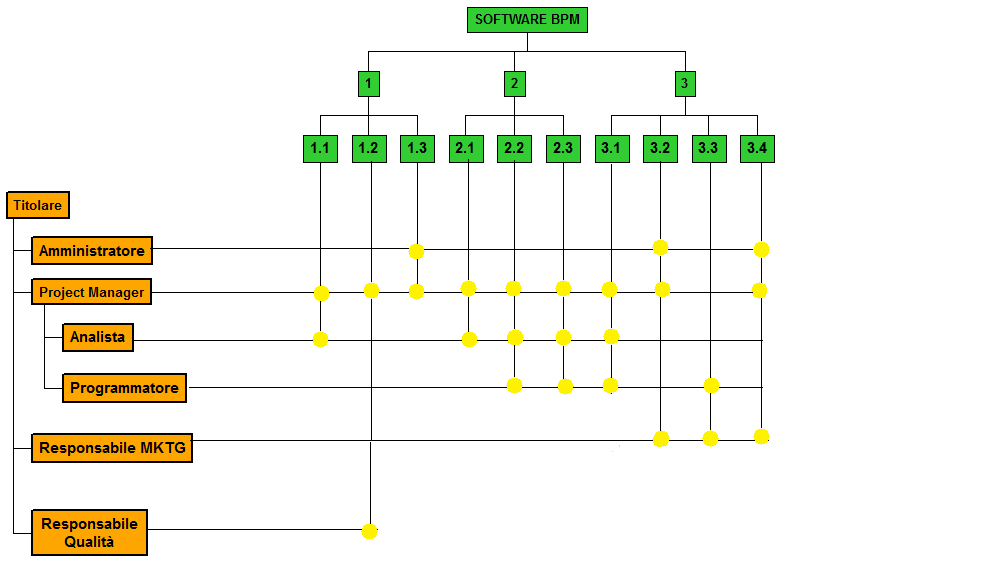
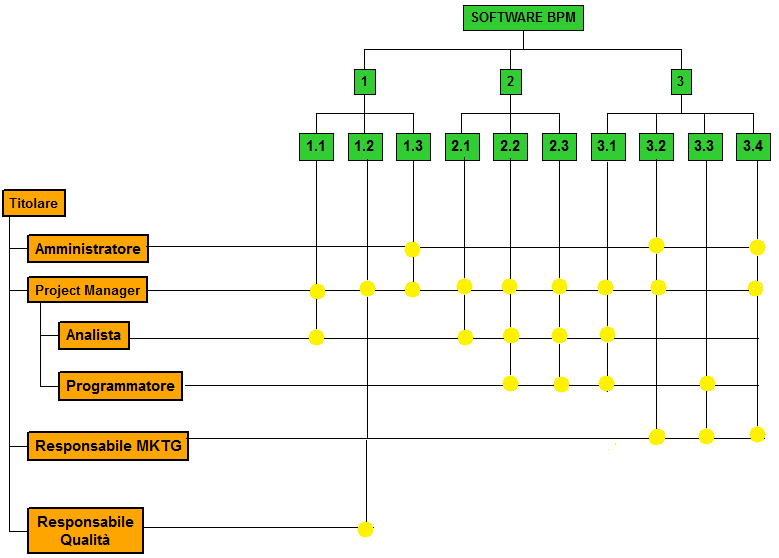
corretti tutti gli overfull vbox/hbox

diff --git a/LaTeX/presentazione/presentazione.tex b/LaTeX/presentazione/presentazione.tex
@@ -217,12 +217,12 @@ Nel mondo l'abito\\ fa il monaco:\\ il nostro obiettivo è\\ farvi l'abito, il m
 \begin{frame}% #3
 \frametitle{Intersezione fra WBS e OBS}
 \begin{columns}
-\column{.75\textwidth}{
+\column{.7\textwidth}{
 \vspace{1em}
-  \includegraphics[width=1.3\textwidth]{WBS_OBS}
+  \includegraphics[width=\textwidth]{WBS_OBS}
 \vfill
 }
-\column{.35\textwidth}{
+\column{.3\textwidth}{
 \scalebox{.7}{
 \hspace{2pt}\begin{minipage}[b]{\textwidth}
 \begin{block}{\ding{182} Pianificazione}
@@ -308,8 +308,8 @@ Nel mondo l'abito\\ fa il monaco:\\ il nostro obiettivo è\\ farvi l'abito, il m
 \frametitle{Preventivo dei costi}
 
 \begin{columns}
-\column{.55\textwidth}{
-\scalebox{.55}{
+\column{.5\textwidth}{
+\scalebox{.51}{
 \begin{scriptsize}
 \begin{tabular}{p{.6\textwidth}ccccccr}
 \toprule
@@ -325,8 +325,8 @@ redazione \inglese{business plan}	            & 1 & & 16 &   & &   & \EUR{520,00
 \end{scriptsize}
 }
 }
-\column{.55\textwidth}{
-\scalebox{.55}{
+\column{.5\textwidth}{
+\scalebox{.51}{
 \begin{scriptsize}
 \begin{tabular}{p{.6\textwidth}ccccccr}
 \toprule
@@ -344,11 +344,12 @@ analisi nuovo SW/soluzione ibrida 					  & & &2 & 	&5	&  8  & \EUR{335,00}\\
 }
 \end{columns}
 
-\medskip
+\bigskip
 
 \begin{columns}
-\column{.55\textwidth}{
-\scalebox{.55}{
+\column{.5\textwidth}{
+\center
+\scalebox{.51}{
 \begin{scriptsize}
 \begin{tabular}{p{.6\textwidth}ccccccr}
 \toprule
@@ -366,7 +367,7 @@ presentazione proposta		 & & 2&  	1	& & 	& & \EUR{80,00}\\
 }
 }
 \bigskip
-\column{.55\textwidth}{
+\column{.5\textwidth}{
 \scalebox{.6}{
 \hspace{5em}\begin{minipage}[2]{\textwidth}
 \scriptsize
@@ -389,7 +390,7 @@ Consulente				    & \EUR{30,00}\\
 \end{columns}
 
 \begin{columns}
-\column{.55\textwidth}{
+\column{.49\textwidth}{
 \begin{center}
 \scalebox{.6}{
 \begin{scriptsize}
@@ -406,6 +407,9 @@ Proposta 			    &   &	\EUR{60,00}\\
 \end{tabular}
 \end{scriptsize}
 }
+
+\bigskip
+
 \rotatebox{10}{
 \begin{tikzpicture}
 \node(0,0) {
@@ -416,7 +420,7 @@ Costo totale: \textcolor{red}{\EUR{4.915}}
 }
 \end{center}
 }
-\column{.55\textwidth}{
+\column{.49\textwidth}{
 \bigskip
 \begin{figure}
   \includegraphics[width=.5\textwidth]{hourglass}
@@ -527,12 +531,11 @@ Costo totale: \textcolor{red}{\EUR{4.915}}
 \end{columns}
 \end{frame}
 
-\subsection{Analisi temporale}
+\subsection{Analisi delle variazioni}
 \begin{frame}% #9
 \frametitle{Prospettiva temporale}
 \end{frame}
 
-\subsection{Analisi geotopografica}
 \begin{frame}% #10
 \frametitle{Analisi geotopografica}
 \end{frame}
